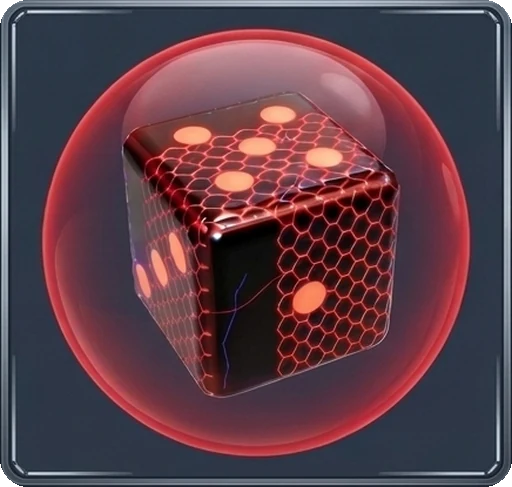
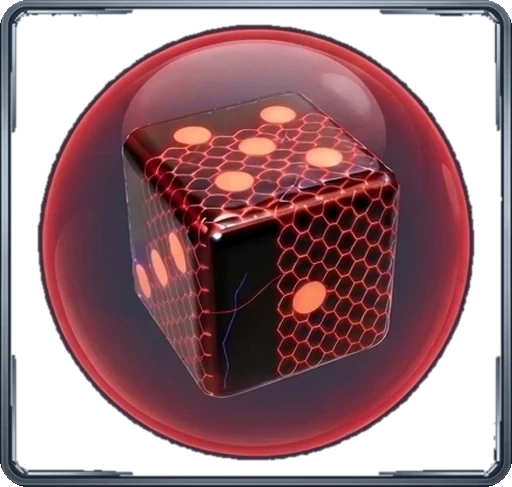
dadu: hapus background border display 24 thumbnail dadu (transparan, tersisa border + bubble + dadu); sinkron preload-manifest & media-hash; SW v444

diff --git a/sw.js b/sw.js
@@ -10,7 +10,7 @@
    dimigrasikan: isi media dicocokkan dengan hash, yang cocok dipakai ulang tanpa unduh.
    JALANKAN ulang tools/gen-preload-manifest.py setiap mengganti/menambah media (tes tests/sw-incremental-media.test.js menjaganya).
    Request Range (audio) dilayani dari cache bila file sudah tersimpan penuh; bila belum, lewat jaringan biasa. Non-GET tidak disentuh. */
-const VERSION = 'ut-pwa-v443';
+const VERSION = 'ut-pwa-v444';
 const MEDIA_CACHE = 'ut-media'; /* permanen: tidak dibuang saat VERSION naik */
 const MEDIA_INDEX = '__media-index__'; /* kunci indeks hash di MEDIA_CACHE */
 const MEDIA_HASH_URL = 'assets/media-hash.json';
